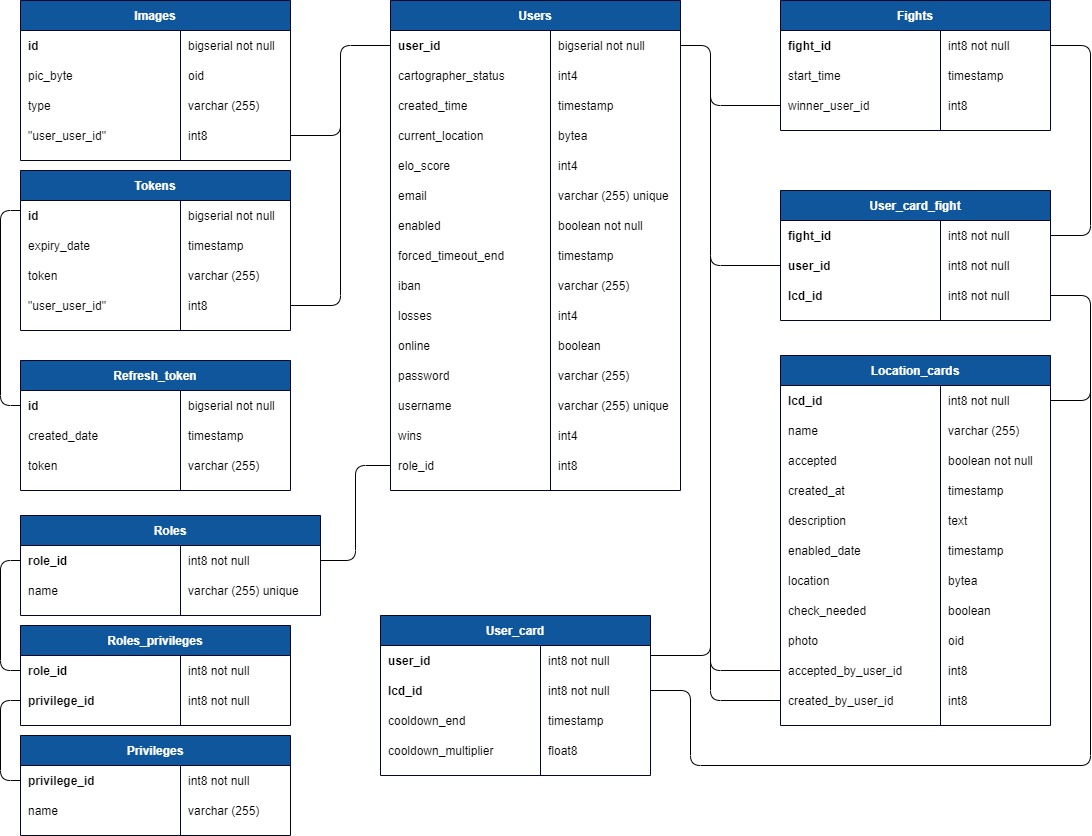
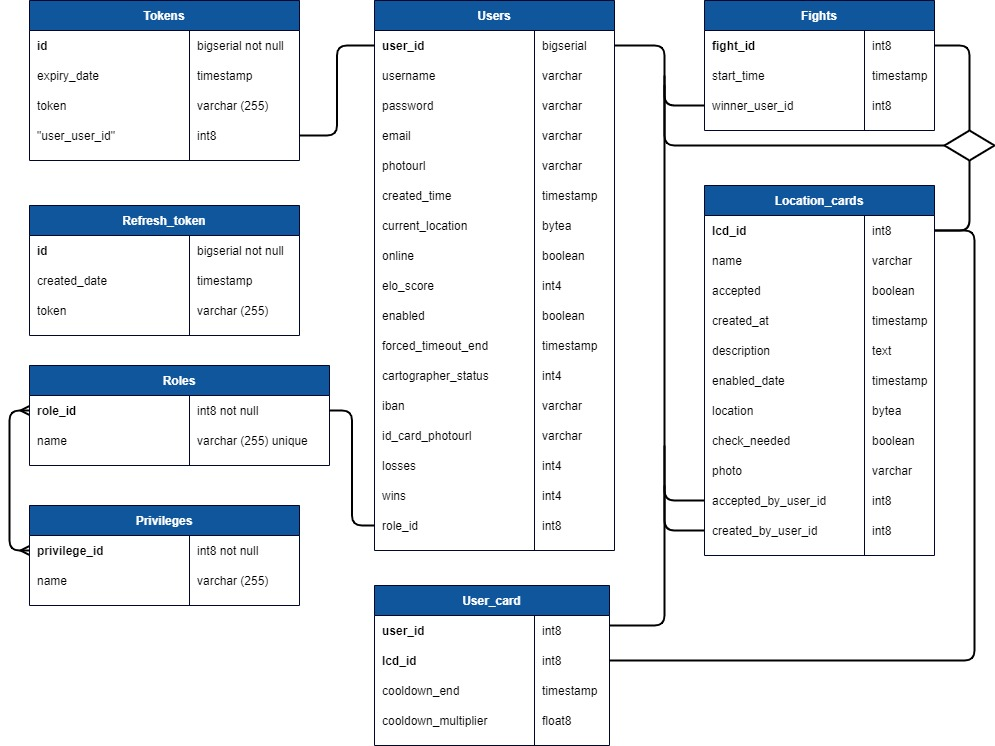
Dorada dokumentacije o bazi podataka.

diff --git a/dokumentacija/Arhitektura.tex b/dokumentacija/Arhitektura.tex
@@ -47,7 +47,6 @@
 			\item \textnormal{Users}
 			\item \textnormal{Tokens}
 			\item \textnormal{Refresh\textunderscore token}
-			\item \textnormal{Images}
 			\item \textnormal{Roles}
 			\item \textnormal{Privileges}
 			\item \textnormal{Roles\textunderscore privileges}
@@ -60,7 +59,7 @@
 			\subsection{Opis tablica}
 			
 
-				\textnormal{\textbf{Users} \quad Ovaj entitet sadržava sve važne informacije o korisniku aplikacije koje bilježi atributima navedenim u tablici. U vezi je \textit{One-to-Many} s entitetima Images, Tokens, Fights, Location\textunderscore cards i User\textunderscore card preko atributa user\textunderscore id. Također je u vezi \textit{Many-to-One} s entitetom Roles preko atributa role\textunderscore id.}
+				\textnormal{\textbf{Users} \quad Ovaj entitet sadržava sve važne informacije o korisniku aplikacije koje bilježi atributima navedenim u tablici. U vezi je \textit{One-to-Many} s entitetima Tokens, Fights, Location\textunderscore cards i User\textunderscore card preko atributa user\textunderscore id. Također je u vezi \textit{Many-to-One} s entitetom Roles preko atributa role\textunderscore id.} \\
 				
 				\begin{longtabu} to \textwidth {|X[6, 3]|X[6, l]|X[20, l]|}
 					
@@ -73,28 +72,30 @@
 					\hline 
 					\endlastfoot
 					
-					\cellcolor{LightGreen}user\textunderscore id & BIGSERIAL	&  	jedinstveni identifikator korisnika	\\ \hline
+					\textbf{user\textunderscore id} & BIGSERIAL	&  	jedinstveni identifikator korisnika	\\ \hline
 					email & VARCHAR & email adresa korisnika \\ \hline
 					username & VARCHAR & korisničko ime \\ \hline
 					password & VARCHAR & lozinka korisnika \\ \hline
+					photourl & VARCHAR & poveznica na fotografiju profila \\ \hline
 					created\textunderscore time & TIMESTAMP & trenutak stvaranja korisničkog računa  \\ \hline 
 					current\textunderscore location & BYTEA	&  	trenutna lokacija korisnika	\\ \hline 
 					elo\textunderscore score & INT4 & rang korisnika prema elo sustavu \\ \hline
-					enabled & BOOLEAN & \\ \hline
+					enabled & BOOLEAN & zastavica potvrde email adrese\\ \hline
 					losses & INT4 & broj izgubljenih igara \\ \hline
 					wins & INT4 & broj pobijeđenih igara \\ \hline
 					online & BOOLEAN & zastavica prisutnosti korisnika \\ \hline
 					forced\textunderscore timeout\textunderscore end & TIMESTAMP & trenutak mogućeg povratka u igru u slučaju privremenog isključenja \\ \hline
-					cartographer\textunderscore status	& INT4 &   	\\ \hline 
+					cartographer\textunderscore status	& INT4 &   oznaka statusa pri prijavi za kartografa 	\\ \hline 
 					iban & VARCHAR & IBAN bankovnog računa kartografa \\ \hline			
-					
-					\cellcolor{LightBlue} role\textunderscore id	& INT8 &  jedinstveni identifikator uloge (roles.role\textunderscore id)	\\ \hline 
+					id\textunderscore card\textunderscore photourl & VARCHAR & poveznica na fotografiju osobne iskaznice \\ \hline
+					\textit{role\textunderscore id} & INT8 &  jedinstveni identifikator uloge (roles.role\textunderscore id)	\\ \hline 
 					
 					
 				\end{longtabu}
 			
+				\textnormal{} \\
 				
-				\textnormal{\textbf{Tokens} \quad Ovaj entitet sadržava sve važne informacije o tokenima koji se koriste za autentifikaciju korisnika. Atributi koje posjeduje su jedinstveni identifikator tokena, njegova vrijednost, datum isticanja te oznaku korisnika kojem pripada. U vezi je \textit{Many-to-One} s entitetom Users preko atributa "user\textunderscore user\textunderscore id". Također je u vezi \textit{One-to-One} s entitetom Refresh\textunderscore token preko atributa id.}
+				\textnormal{\textbf{Tokens} \quad Ovaj entitet sadržava sve važne informacije o tokenima koji se koriste za autentifikaciju korisnika. Atributi koje posjeduje su jedinstveni identifikator tokena, njegova vrijednost, datum isticanja te oznaku korisnika kojem pripada. U vezi je \textit{Many-to-One} s entitetom Users preko atributa "user\textunderscore user\textunderscore id".} \\
 			
 			
 			
@@ -109,15 +110,17 @@
 					\hline 
 					\endlastfoot
 					
-					\cellcolor{LightGreen}id & BIGSERIAL	&  	jedinstveni identifikator tokena 	\\ \hline
+					\textbf{id} & BIGSERIAL	&  	jedinstveni identifikator tokena 	\\ \hline
 					expiry\textunderscore date	& TIMESTAMP &   datum isticanja tokena	\\ \hline 
 					token & VARCHAR &  vrijednost tokena \\ \hline  
-					\cellcolor{LightBlue} "user\textunderscore user\textunderscore id"	& INT8 &  jedinstvena oznaka korisnika (users.user\textunderscore id) 	\\ \hline 
+					\textit{"user\textunderscore user\textunderscore id"} & INT8 &  jedinstvena oznaka korisnika (users.user\textunderscore id) 	\\ \hline 
 					
 					
 				\end{longtabu}
 			
-				\textnormal{\textbf{Refresh\textunderscore token} \quad Ovaj entitet sadržava sve važne informacije o obnavljanju tokena koji služe za autentifikaciju korisnika. Atributi koje posjeduje su jedinstveni identifikator tokena, njegova nova vrijednost te datum stvaranja. U vezi je \textit{One-to-One} s entitetom Tokens preko atributa id.}
+				\textnormal{}
+			
+				\textnormal{\textbf{Refresh\textunderscore token} \quad Ovaj entitet sadržava sve važne informacije o obnavljanju tokena koji služe za autentifikaciju korisnika. Atributi koje posjeduje su jedinstveni identifikator tokena, njegova nova vrijednost te datum stvaranja.} \\
 				
 			\begin{longtabu} to \textwidth {|X[6, l]|X[6, l]|X[20, l]|}
 				
@@ -130,7 +133,7 @@
 				\hline 
 				\endlastfoot
 				
-				\cellcolor{LightGreen}id & BIGSERIAL &  	jedinstveni identifikator tokena (tokens.id) 	\\ \hline
+				\textbf{id} & BIGSERIAL &  	jedinstveni identifikator tokena (tokens.id) 	\\ \hline
 				created\textunderscore date	& TIMESTAMP &   datum stvaranja tokena	\\ \hline 
 				token & VARCHAR & vrijednost tokena  \\ \hline 
 				
@@ -138,28 +141,9 @@
 				
 			\end{longtabu}
 		
-			\textnormal{\textbf{Images} \quad Ovaj entitet sadržava sve informacije o fotografijama koje je potrebno priložiti pri registraciji korisnika. Atributi koje posjeduje su jedinstveni identifikator fotografije, njen digitalni zapis, vrstu fotografije koja se odnosi na fotgrafiju korisnika ili fotografiju osobne iskaznice te jedinstvenu oznaku korisnika kojem pripada. U vezi je \textit{Many-to-One} s entitetom Users preko atributa "user\textunderscore user\textunderscore id". }
+			\textnormal{}
 		
-			\begin{longtabu} to \textwidth {|X[6, l]|X[6, l]|X[20, l]|}
-				
-				\hline \multicolumn{3}{|c|}{\textbf{images}}	 \\[3pt] \hline
-				\endfirsthead
-				
-				\hline \multicolumn{3}{|c|}{\textbf{images}}	 \\[3pt] \hline
-				\endhead
-				
-				\hline 
-				\endlastfoot
-				
-				\cellcolor{LightGreen}id & BIGSERIAL	&  	jedinstveni identifikator fotografije 	\\ \hline
-				pic\textunderscore byte	& OID &  digitalni zapis fotografije 	\\ \hline 
-				type & VARCHAR & vrsta fotografije  \\ \hline  
-				\cellcolor{LightBlue} "user\textunderscore user\textunderscore id"	& INT8 &  jedinstvena oznaka korisnika (users.user\textunderscore id)   	\\ \hline 
-				
-				
-			\end{longtabu}
-		
-			\textnormal{\textbf{Roles} \quad Ovaj entitet sadržava sve važne informacije vezane uz ulogu koju određeni korisnik može imati, a one su administrator, kartograf ili igrač. Atributi koje posjeduje su jedinstveni identifikator uloge i njezin naziv. U vezi je \textit{One-to-Many} s entitetom Users preko atributa role\textunderscore id. Također je u vezi \textit{Many-to-Many} s entitetom Privileges preko spojne tablice roles\textunderscore privileges.}
+			\textnormal{\textbf{Roles} \quad Ovaj entitet sadržava sve važne informacije vezane uz ulogu koju određeni korisnik može imati, a one su administrator, kartograf ili igrač. Atributi koje posjeduje su jedinstveni identifikator uloge i njezin naziv. U vezi je \textit{One-to-Many} s entitetom Users preko atributa role\textunderscore id. Također je u vezi \textit{Many-to-Many} s entitetom Privileges preko spojne tablice roles\textunderscore privileges.} \\
 		
 			\begin{longtabu} to \textwidth {|X[6, l]|X[6, l]|X[20, l]|}
 				
@@ -172,13 +156,15 @@
 				\hline 
 				\endlastfoot
 				
-				\cellcolor{LightGreen}role\textunderscore id & INT8	&  	jedinstveni identifikator uloge 	\\ \hline
+				\textbf{role\textunderscore id} & INT8	&  	jedinstveni identifikator uloge 	\\ \hline
 				name	& VARCHAR &   naziv uloge	\\ \hline 
 							
 				
 			\end{longtabu}
 		
-			\textnormal{\textbf{Privileges} \quad Ovaj entitet sadržava sve važne informacije o povlasticama koje uloge mogu imati. Atributi koje posjeduje su jedinstveni identifikator povlastice i njen naziv. U vezi je \textit{Many-to-Many} s entitetom Roles preko spojne tablice roles\textunderscore privileges.}
+			\eject
+		
+			\textnormal{\textbf{Privileges} \quad Ovaj entitet sadržava sve važne informacije o povlasticama koje uloge mogu imati. Atributi koje posjeduje su jedinstveni identifikator povlastice i njen naziv. U vezi je \textit{Many-to-Many} s entitetom Roles preko spojne tablice roles\textunderscore privileges.} \\
 		
 			\begin{longtabu} to \textwidth {|X[6, l]|X[6, l]|X[20, l]|}
 				
@@ -191,13 +177,15 @@
 				\hline 
 				\endlastfoot
 				
-				\cellcolor{LightGreen}privilege\textunderscore id & INT8	&  	jedinstveni identifikator povlastice 	\\ \hline
+				\textbf{privilege\textunderscore id} & INT8	&  	jedinstveni identifikator povlastice 	\\ \hline
 				name	& VARCHAR &   naziv povlastice	\\ \hline 
 								
 				
 			\end{longtabu}
 		
-			\textnormal{\textbf{Roles\textunderscore privileges} \quad Ova tablica nastaje zbog \textit{Many-to-Many} veze između entiteta Roles i Privileges. Sadrži njihove primarne ključeve te je time povezana s njima. Prikazuje koje uloge imaju koje povlastice.}
+			\textnormal{}
+		
+			\textnormal{\textbf{Roles\textunderscore privileges} \quad Ova tablica nastaje zbog \textit{Many-to-Many} veze između entiteta Roles i Privileges. Sadrži njihove primarne ključeve te je time povezana s njima. Prikazuje koje uloge imaju koje povlastice.} \\
 			
 			\begin{longtabu} to \textwidth {|X[6, l]|X[6, l]|X[20, l]|}
 				
@@ -210,14 +198,16 @@
 				\hline 
 				\endlastfoot
 				
-				\cellcolor{LightGreen} role\textunderscore id & INT8 & jedinstveni identifikator uloge (roles.role\textunderscore id) \\ \hline
-				\cellcolor{LightGreen}privilege\textunderscore id & INT8	&  	jedinstveni identifikator povlastice (privileges.privilege\textunderscore id) 	\\ \hline
+				\textbf{\textit{role\textunderscore id}} & INT8 & jedinstveni identifikator uloge (roles.role\textunderscore id) \\ \hline
+				\textbf{\textit{privilege\textunderscore id}} & INT8	&  	jedinstveni identifikator povlastice (privileges.privilege\textunderscore id) 	\\ \hline
 				
 						
 				
 			\end{longtabu}
 		
-			\textnormal{\textbf{Location\textunderscore cards} \quad Ovaj entitet sadržava sve važne informacije o karticama lokacije. Atributi koje posjeduje su navedeni u tablici. U vezi je \textit{Many-to-Many-to-Many} s entitetima Fights i Users preko spojne tablice User\textunderscore card\textunderscore fight. Također je u vezi \textit{Many-to-One} s entitetom Users preko atributa accepted\textunderscore by\textunderscore user \textunderscore id i atributa created\textunderscore by\textunderscore user \textunderscore id.}
+			\textnormal{}
+		
+			\textnormal{\textbf{Location\textunderscore cards} \quad Ovaj entitet sadržava sve važne informacije o karticama lokacije. Atributi koje posjeduje su navedeni u tablici. U vezi je \textit{Many-to-Many-to-Many} s entitetima Fights i Users preko spojne tablice User\textunderscore card\textunderscore fight. Također je u vezi \textit{Many-to-One} s entitetom Users preko atributa accepted\textunderscore by\textunderscore user \textunderscore id i atributa created\textunderscore by\textunderscore user \textunderscore id.} \\
 		
 			\begin{longtabu} to \textwidth {|X[6, 4]|X[6, l]|X[20, l]|}
 				
@@ -230,7 +220,7 @@
 				\hline 
 				\endlastfoot
 				
-				\cellcolor{LightGreen}lcd\textunderscore id & INT8	&  	jedinstveni identifikator kartice lokacije 	\\ \hline
+				\textbf{lcd\textunderscore id} & INT8	&  	jedinstveni identifikator kartice lokacije 	\\ \hline
 				name	& VARCHAR &   naziv lokacije	\\ \hline 
 				accepted & BOOLEAN & zastavica koja označava je li lokacija odobrena \\ \hline
 				created\textunderscore at & TIMESTAMP & trenutak stvaranja kartice lokacije \\ \hline
@@ -238,14 +228,16 @@
 				enabled\textunderscore date & TIMESTAMP & trenutak odobravanja kartice lokacije \\ \hline
 				location & BYTEA & stvarna lokacija koju označava kartica lokacije \\ \hline
 				check\textunderscore needed & BOOLEAN & zastavica koja označava potrebu za dodatnom potvrdom kartice lokacije \\ \hline
-				photo & OID & digitalni zapis fotografije lokacije \\ \hline
-				\cellcolor{LightBlue}accepted\textunderscore by\textunderscore user \textunderscore id & INT8 & jedinstveni identifikator kartografa koji je odobrio karticu lokacije (users.user\textunderscore id) \\ \hline
-				\cellcolor{LightBlue}created\textunderscore by\textunderscore user \textunderscore id & INT8 & jedinstveni identifikator igrača koji je prijavio karticu lokacije (users.user\textunderscore id) \\ \hline				
+				photo & VARCHAR & digitalni zapis fotografije lokacije \\ \hline
+				\textit{accepted\textunderscore by\textunderscore user \textunderscore id} & INT8 & jedinstveni identifikator kartografa koji je odobrio karticu lokacije (users.user\textunderscore id) \\ \hline
+				\textit{created\textunderscore by\textunderscore user \textunderscore id} & INT8 & jedinstveni identifikator igrača koji je prijavio karticu lokacije (users.user\textunderscore id) \\ \hline				
 				
 				
 			\end{longtabu}
 		
-			\textnormal{\textbf{User\textunderscore card} \quad Ovaj entitet sadržava sve informacije o kartici koju posjeduje neki igrač. Atributi koje posjeduje su jedinstveni identifikator korisnika i kartice koju posjeduje, trenutak kada se kartica može ponovo koristit u borbi te koeficijent koji utječe na smanjenje broja bodova kartice. U vezi je \textit{Many-to-One} s entitetom Users preko atributa user\textunderscore id te s entitetom Location\textunderscore cards preko atribut lcd\textunderscore id.}
+			\textnormal{}
+		
+			\textnormal{\textbf{User\textunderscore card} \quad Ovaj entitet sadržava sve informacije o kartici koju posjeduje neki igrač. Atributi koje posjeduje su jedinstveni identifikator korisnika i kartice koju posjeduje, trenutak kada se kartica može ponovo koristit u borbi te koeficijent koji utječe na smanjenje broja bodova kartice. U vezi je \textit{Many-to-One} s entitetom Users preko atributa user\textunderscore id te s entitetom Location\textunderscore cards preko atribut lcd\textunderscore id.} \\
 		
 			\begin{longtabu} to \textwidth {|X[6, 4]|X[6, l]|X[20, l]|}
 				
@@ -258,13 +250,15 @@
 				\hline 
 				\endlastfoot
 				
-				\cellcolor{LightGreen}user\textunderscore id & INT8	&  	jedinstveni identifikator korisnika koji posjeduje karticu lokacije (users.user\textunderscore id) 	\\ \hline
-				\cellcolor{LightGreen}lcd\textunderscore id & INT8	&  	jedinstveni identifikator kartice lokacije koju korisnik posjeduje (location\textunderscore cards.lcd\textunderscore id) 	\\ \hline
+				\textbf{user\textunderscore id} & INT8	&  	jedinstveni identifikator korisnika koji posjeduje karticu lokacije (users.user\textunderscore id) 	\\ \hline
+				\textbf{lcd\textunderscore id} & INT8	&  	jedinstveni identifikator kartice lokacije koju korisnik posjeduje (location\textunderscore cards.lcd\textunderscore id) 	\\ \hline
 				cooldown\textunderscore end	& TIMESTAMP &   trenutak kada se kartica lokacije može ponovo koristiti u borbi	\\ \hline 
 				cooldown\textunderscore multiplier & FLOAT8 & koeficijent prema kojem kartica lokacije gubi bodove \\ \hline
 				
 				
 			\end{longtabu}
+		
+			\textnormal{}
 		
 			\textnormal{\textbf{Fights\textunderscore cards} \quad Ovaj entitet sadržava sve važne informacije o borbama koje su se odvile. Atributi koje posjeduje su jedinstveni identifikator borbe, vrijeme početka borbe te igrača koji je pobijedio. navedeni u tablici. U vezi je \textit{Many-to-Many-to-Many} s entitetima Location\textunderscore cards i Users preko spojne tablice User\textunderscore card\textunderscore fight. Također je u vezi \textit{Many-to-One} s entitetom Users preko atributa winner\textunderscore user \textunderscore id.}
 		
@@ -279,14 +273,16 @@
 				\hline 
 				\endlastfoot
 				
-				\cellcolor{LightGreen}fight\textunderscore id & INT8	&  	jedinstveni identifikator borbe 	\\ \hline
+				\textbf{fight\textunderscore id} & INT8	&  	jedinstveni identifikator borbe 	\\ \hline
 				start\textunderscore time	& TIMESTAMP &   trenutak početka borbe	\\ \hline 
-				\cellcolor{LightBlue}winner\textunderscore user\textunderscore id & INT8 & jedinstveni identifikator korisnika koji je pobijedio u borbi (users.user\textunderscore id) \\ \hline
+				\textit{winner\textunderscore user\textunderscore id} & INT8 & jedinstveni identifikator korisnika koji je pobijedio u borbi (users.user\textunderscore id) \\ \hline
 				
 				
 			\end{longtabu}
 		
-			\textnormal{\textbf{User\textunderscore card\textunderscore fight} \quad Ova tablica nastaje zbog \textit{Many-to-Many-to-Many} veze između entiteta Users, Fight i Location\textunderscore cards. Sadrži njihove primarne ključeve te je time i povezana s njima, a prikazuje borbu u kojoj je korisnik sudjelovao s određenom karticom.}
+			\textnormal{}
+		
+			\textnormal{\textbf{User\textunderscore card\textunderscore fight} \quad Ova tablica nastaje zbog \textit{Many-to-Many-to-Many} veze između entiteta Users, Fight i Location\textunderscore cards. Sadrži njihove primarne ključeve te je time i povezana s njima, a prikazuje borbu u kojoj je korisnik sudjelovao s određenom karticom.} \\
 		
 			\begin{longtabu} to \textwidth {|X[6, l]|X[6, l]|X[20, l]|}
 				
@@ -299,15 +295,15 @@
 				\hline 
 				\endlastfoot
 				
-				\cellcolor{LightGreen}fight\textunderscore id & INT8	&  	jedinstveni identifikator borbe (fights.fight\textunderscore id) 	\\ \hline
+				\textbf{\textit{fight\textunderscore id}} & INT8	&  	jedinstveni identifikator borbe (fights.fight\textunderscore id) 	\\ \hline
 				
-				\cellcolor{LightGreen}user\textunderscore id & INT8	&  	jedinstveni identifikator igrača (users.user\textunderscore id) 	\\ \hline
+				\textbf{\textit{user\textunderscore id}} & INT8	&  	jedinstveni identifikator igrača (users.user\textunderscore id) 	\\ \hline
 				
-				\cellcolor{LightGreen}lcd\textunderscore id & INT8	&  	jedinstveni identifikator kartice lokacije (location\textunderscore cards.lcd\textunderscore id) 	\\ \hline
+				\textbf{\textit{lcd\textunderscore id}} & INT8	&  	jedinstveni identifikator kartice lokacije (location\textunderscore cards.lcd\textunderscore id) 	\\ \hline
 				
 				
 			\end{longtabu}
-			
+			\eject
 			\subsection{Dijagram baze podataka}
 				\textit{ U ovom potpoglavlju potrebno je umetnuti dijagram baze podataka. Primarni i strani ključevi moraju biti označeni, a tablice povezane. Bazu podataka je potrebno normalizirati. Podsjetite se kolegija "Baze podataka".}
 				
